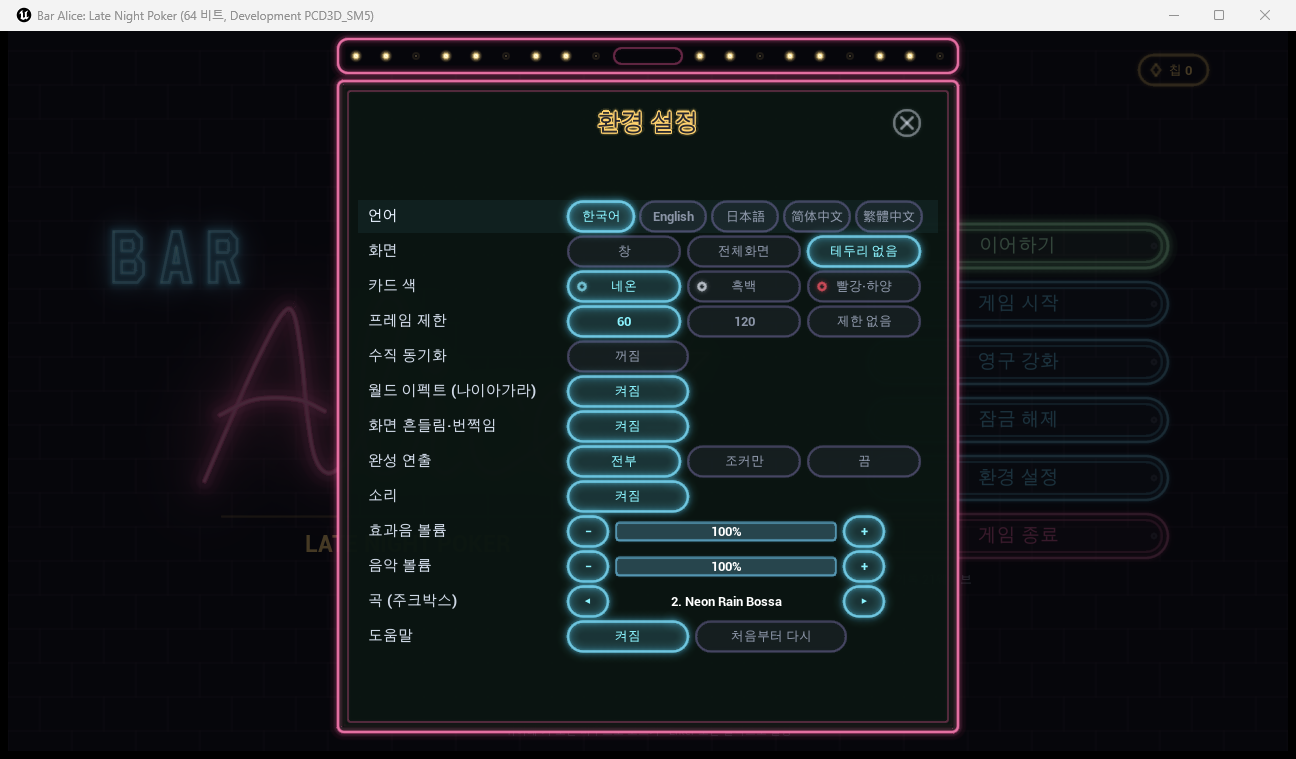
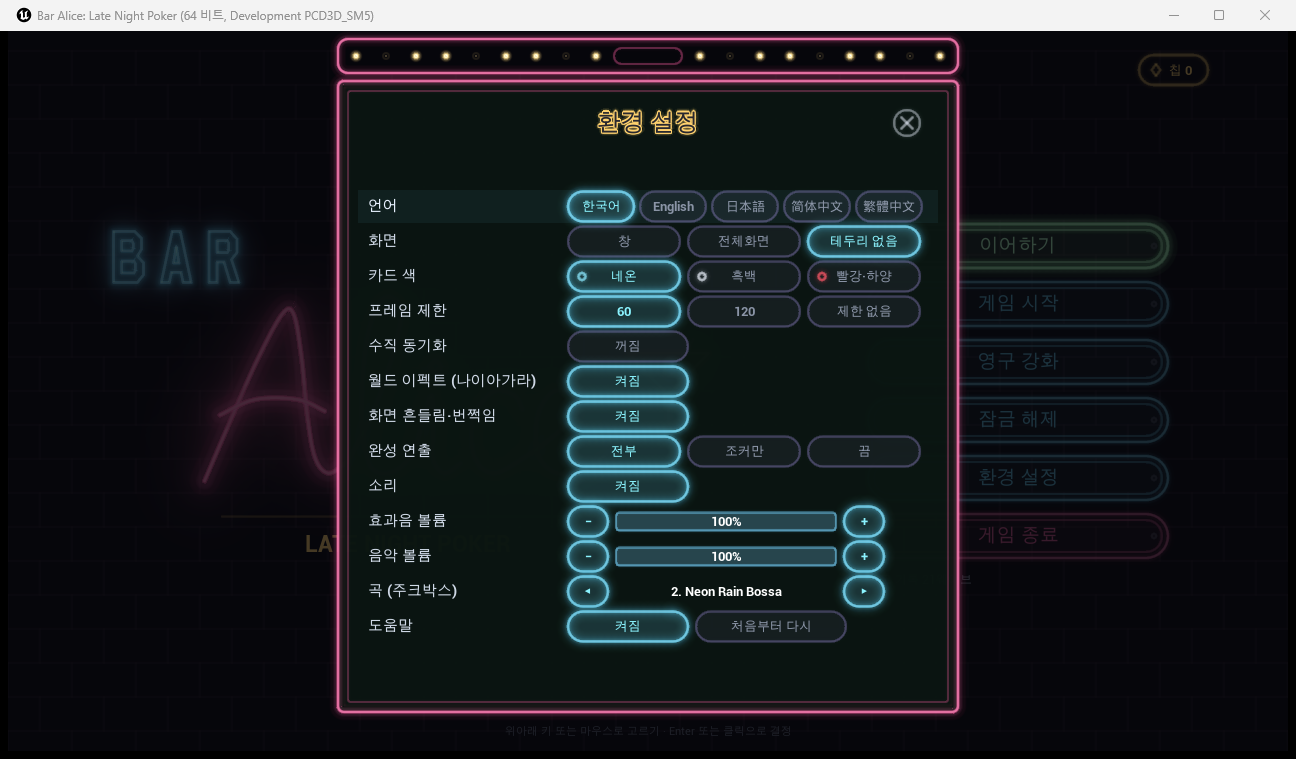
환경 설정 칠판 여백 33 → 23 (D-395)

diff --git a/Source/ProjectB/PDBoardDraw.h b/Source/ProjectB/PDBoardDraw.h
@@ -748,10 +748,10 @@ inline const TCHAR* MenuItemName(int I)
 // 설정 창 (D-110): 줄마다 이름 + 버튼
 enum class ESetRow : uint8_t { Lang, Window, CardTheme, Frame, VSync, WorldFx, Shake, Cine, Sound, Volume, Music, Track, Help, Count }; // 닫기 줄은 뺐다 → 오른쪽 위 ⓧ 버튼 (D-384) // Track: 주크박스 곡 ◀ 이름 ▶ (D-319) // Cine: 완성 연출 전부/조커만/끔 (D-314) // Help: 도움말 켜기·처음부터 (D-217)
 constexpr float SetW = 560.f, SetRowH = 33.f, SetRowGap = 2.f, SetLabelW = 200.f, SetBtnH = 30.f;
-// D-395: 제목 아래 · 맨 아래에 여백 (38 → 33씩). 화면(720)에 들어가게 창 전체를 14 올림 (전구 가로대 윗변 8, 칠판 아랫변 701)
-constexpr float SetX = DesignW / 2.f - SetW / 2.f, SetY0 = 169.f; // 첫 줄 (D-159 140 → D-394 150 → D-395 169)
-constexpr float SetBoxX = SetX - 30.f, SetBoxY = SetY0 - 134.f, SetBoxW = SetW + 60.f; // 창 윗변 35 (D-392 · D-394 49 에서 14 올림)
-constexpr float SetBoxH = (int)ESetRow::Count * (SetRowH + SetRowGap) + 211.f;
+// D-395: 제목 아래 · 맨 아래에 여백 (38 → 33 → 23씩). 창 윗변은 35 (전구 가로대 윗변 8, 칠판 아랫변 681)
+constexpr float SetX = DesignW / 2.f - SetW / 2.f, SetY0 = 159.f; // 첫 줄 (D-159 140 → D-394 150 → D-395 159)
+constexpr float SetBoxX = SetX - 30.f, SetBoxY = SetY0 - 124.f, SetBoxW = SetW + 60.f; // 창 윗변 35 (D-392 · D-394 49 에서 14 올림)
+constexpr float SetBoxH = (int)ESetRow::Count * (SetRowH + SetRowGap) + 191.f;
 inline float SetRowY(int Row) { return SetY0 + Row * (SetRowH + SetRowGap); }
 constexpr float SetCloseR = 13.f, SetCloseCX = SetX + SetLabelW + 352.f - SetCloseR, SetCloseCY = SetBoxY + 57.f; /* D-394: 칠판 윗변(SetBoxY + 15) + 42, 제목과 같은 높이 */ // 닫기 ⓧ (D-384): 아치 어깨 바로 아래, 언어 줄 위. 오른쪽 끝을 선택지 버튼 열 오른쪽 끝(X0 + 352)에 맞춤 (D-387)
 inline bool SetBarRow(int Row) { return Row == (int)ESetRow::Volume || Row == (int)ESetRow::Music; } // −/막대/+ 줄

diff --git a/docs/05-decision-log.md b/docs/05-decision-log.md
@@ -399,4 +399,4 @@
 | D-392 | 2026-11-17 | 환경 설정 창을 위로 15 늘림 (창 윗변 SetY0 - 76 → - 91, 높이 +15). 간판 글자 · 닫기 ⓧ 는 윗변을 따라 같이 올라가고 줄 자리는 그대로. 닫기 ⓧ 는 앞서 3 올림(윗변 + 52 → + 49) | 사용자: X 버튼 3픽셀 위로 · 창 위로 15픽셀 늘려줘 | 그대로 둠 |
 | D-393 | 2026-11-17 | **환경 설정 창 = 세워 둔 칠판 간판** (시안 tools/neon/settings_board_mock.py B, docs/images/settings-1117): 주크박스 아치(D-293)를 걷고, 위에 손잡이 구멍이 뚫린 가로대(핫핑크 테 + 전구 9개씩 두 줄, 꺼진 전구가 돌아감) + 아래 핫핑크 두 겹 테 칠판(아주 어두운 초록 바탕 0a1511). 시안의 양옆 벌어진 다리 · 버팀대 · 분필 받침 같은 아래 선은 사용자 요청으로 뺌. 줄 배치 · 선택지 색 · 흰 닫기 ⓧ 는 그대로, 제목 "환경 설정" 은 칠판 맨 위. 화면 확인용 시험 스위치 -pdsettings (쉬핑 제외, 시작하면 설정 창이 열린 채) | 사용자: 전구 · 배치 · 색은 유지하고 네모나게, 세워 놓는 칠판 메뉴판 느낌 → 2번 시안, 양옆 사선 · 밑 선 지우기 | A 네모 창, 다리 있는 입간판 |
 | D-394 | 2026-11-17 | 환경 설정 칠판 간판 다듬기: 위 전구 가로대를 칠판과 같은 너비로, 제목 "환경 설정" 을 내려 닫기 ⓧ 와 같은 높이(칠판 윗변 + 42)에 나란히, 제목과 첫 줄 사이를 띄우려 줄 전체를 10 내리고 창 높이 +10 (SetY0 140 → 150, 창 윗변 49 그대로) | 사용자: 전구 박스 아래와 크기 맞추기 · 제목 너무 위, 내리고 X 와 정렬 · 공간 부족하면 늘려도 됨 | 그대로 둠 |
-| D-395 | 2026-11-17 | 환경 설정 칠판: 제목 아래와 맨 아래에 여백을 넣음 — 처음 38씩에서 사용자 요청으로 5씩 줄여 33씩 (첫 줄 SetY0 150 → 169, 창 높이 +66). 화면 720 에 들어가게 창 전체를 14 올림 (전구 가로대 윗변 22 → 8, 칠판 아랫변 701) | 사용자: 빨간 박스만큼 여백 (제목 아래 · 맨 아래) | 줄 간격 줄이기 |
+| D-395 | 2026-11-17 | 환경 설정 칠판: 제목 아래와 맨 아래에 여백을 넣음 — 처음 38씩 → 사용자 요청으로 33 → 23씩 (첫 줄 SetY0 150 → 159, 창 높이 +46). 창 전체를 14 올림 (전구 가로대 윗변 22 → 8, 칠판 아랫변 681) | 사용자: 빨간 박스만큼 여백 (제목 아래 · 맨 아래) | 줄 간격 줄이기 |
